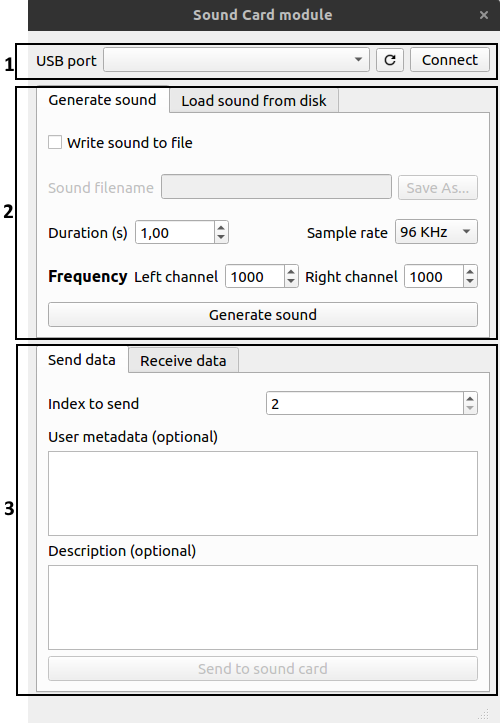
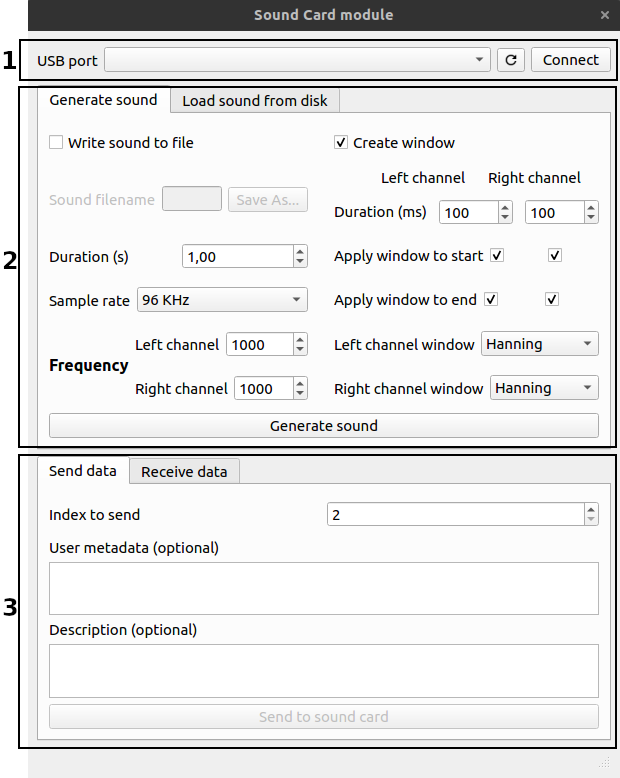
Updated UI usage documentation

diff --git a/pybpod_soundcard_module/module_gui.py b/pybpod_soundcard_module/module_gui.py
@@ -79,7 +79,7 @@ class SoundGenerationPanel(BaseWidget):
                     ('_filename', '_saveas_btn'),
                     ['_duration', '_sample_rate'],
                     ('h5:Frequency',  ['_freq_left', '_freq_right'])],
-                ' ',
+                '    ',
                 ['_create_window',
                     ('', 'Left channel', 'Right channel'),
                     ('Duration (ms)', '_left_window_duration', '_right_window_duration'),

diff --git a/pybpod_soundcard_module/settings.py b/pybpod_soundcard_module/settings.py
@@ -2,4 +2,4 @@ import os
 
 SOUNDCARD_PLUGIN_ICON = os.path.join(os.path.dirname(__file__), 'resources', 'sound-card.png')
 
-SOUNDCARD_PLUGIN_WINDOW_SIZE = 700, 600
+SOUNDCARD_PLUGIN_WINDOW_SIZE = 500, 600

diff --git a/docs/source/user-interface.rst b/docs/source/user-interface.rst
@@ -46,9 +46,9 @@ generate a sound using the provided UI, or you can load it from the disk.
 Generating sounds
 -----------------
 The UI allows to create sounds with a sinewave, with distinct frequencies for
-the left and right channel. The duration of the sound can also be configured.
-The two sample rates supported by the Harp Sound Card can be selected in the
-sound generation portion of the UI.
+the left and right channel. The duration, in seconds, of the sound can also be
+configured. The two sample rates supported by the Harp Sound Card can be selected
+in the sound generation portion of the UI.
 
 .. figure:: _static/generate_sound.png
    :scale: 100 %
@@ -59,12 +59,26 @@ sound generation portion of the UI.
 
 When pressing the **Generate sound** button, the sound will be generated and
 it will be possible to send it to the Sound Card, at the bottom portion of the
-UI.
+main UI.
 
 .. note:: It is possible to generate a sound in memory and send it directly
           to the Sound Card. However, if you wish to save the generated
           sound to the disk, you can activate the checkbox **Write sound to
           file** and create a new file.
+
+At the same time, it is possible to generate the sound with a window function at
+the start and/or end of the sound. The duration of this window can be different
+for the left and right channel, and its duration is defined in milliseconds. It is
+also possible to define if the window function should be applied to the start, end
+or both sides of the sound. The window function used can also be selected. The
+available options are: Hanning, Hamming, Blackman and Bartlett.
+
+.. note:: The window functions implementation are provided by the NumPy library.
+          For further details, please visit the |numpy_location| (opens in new tab).
+
+.. |numpy_location| raw:: html
+
+   <a href='https://docs.scipy.org/doc/numpy/reference/routines.window.html' target='_blank'>Numpy's official documentation</a>
 
 
 Loading sounds from disk
